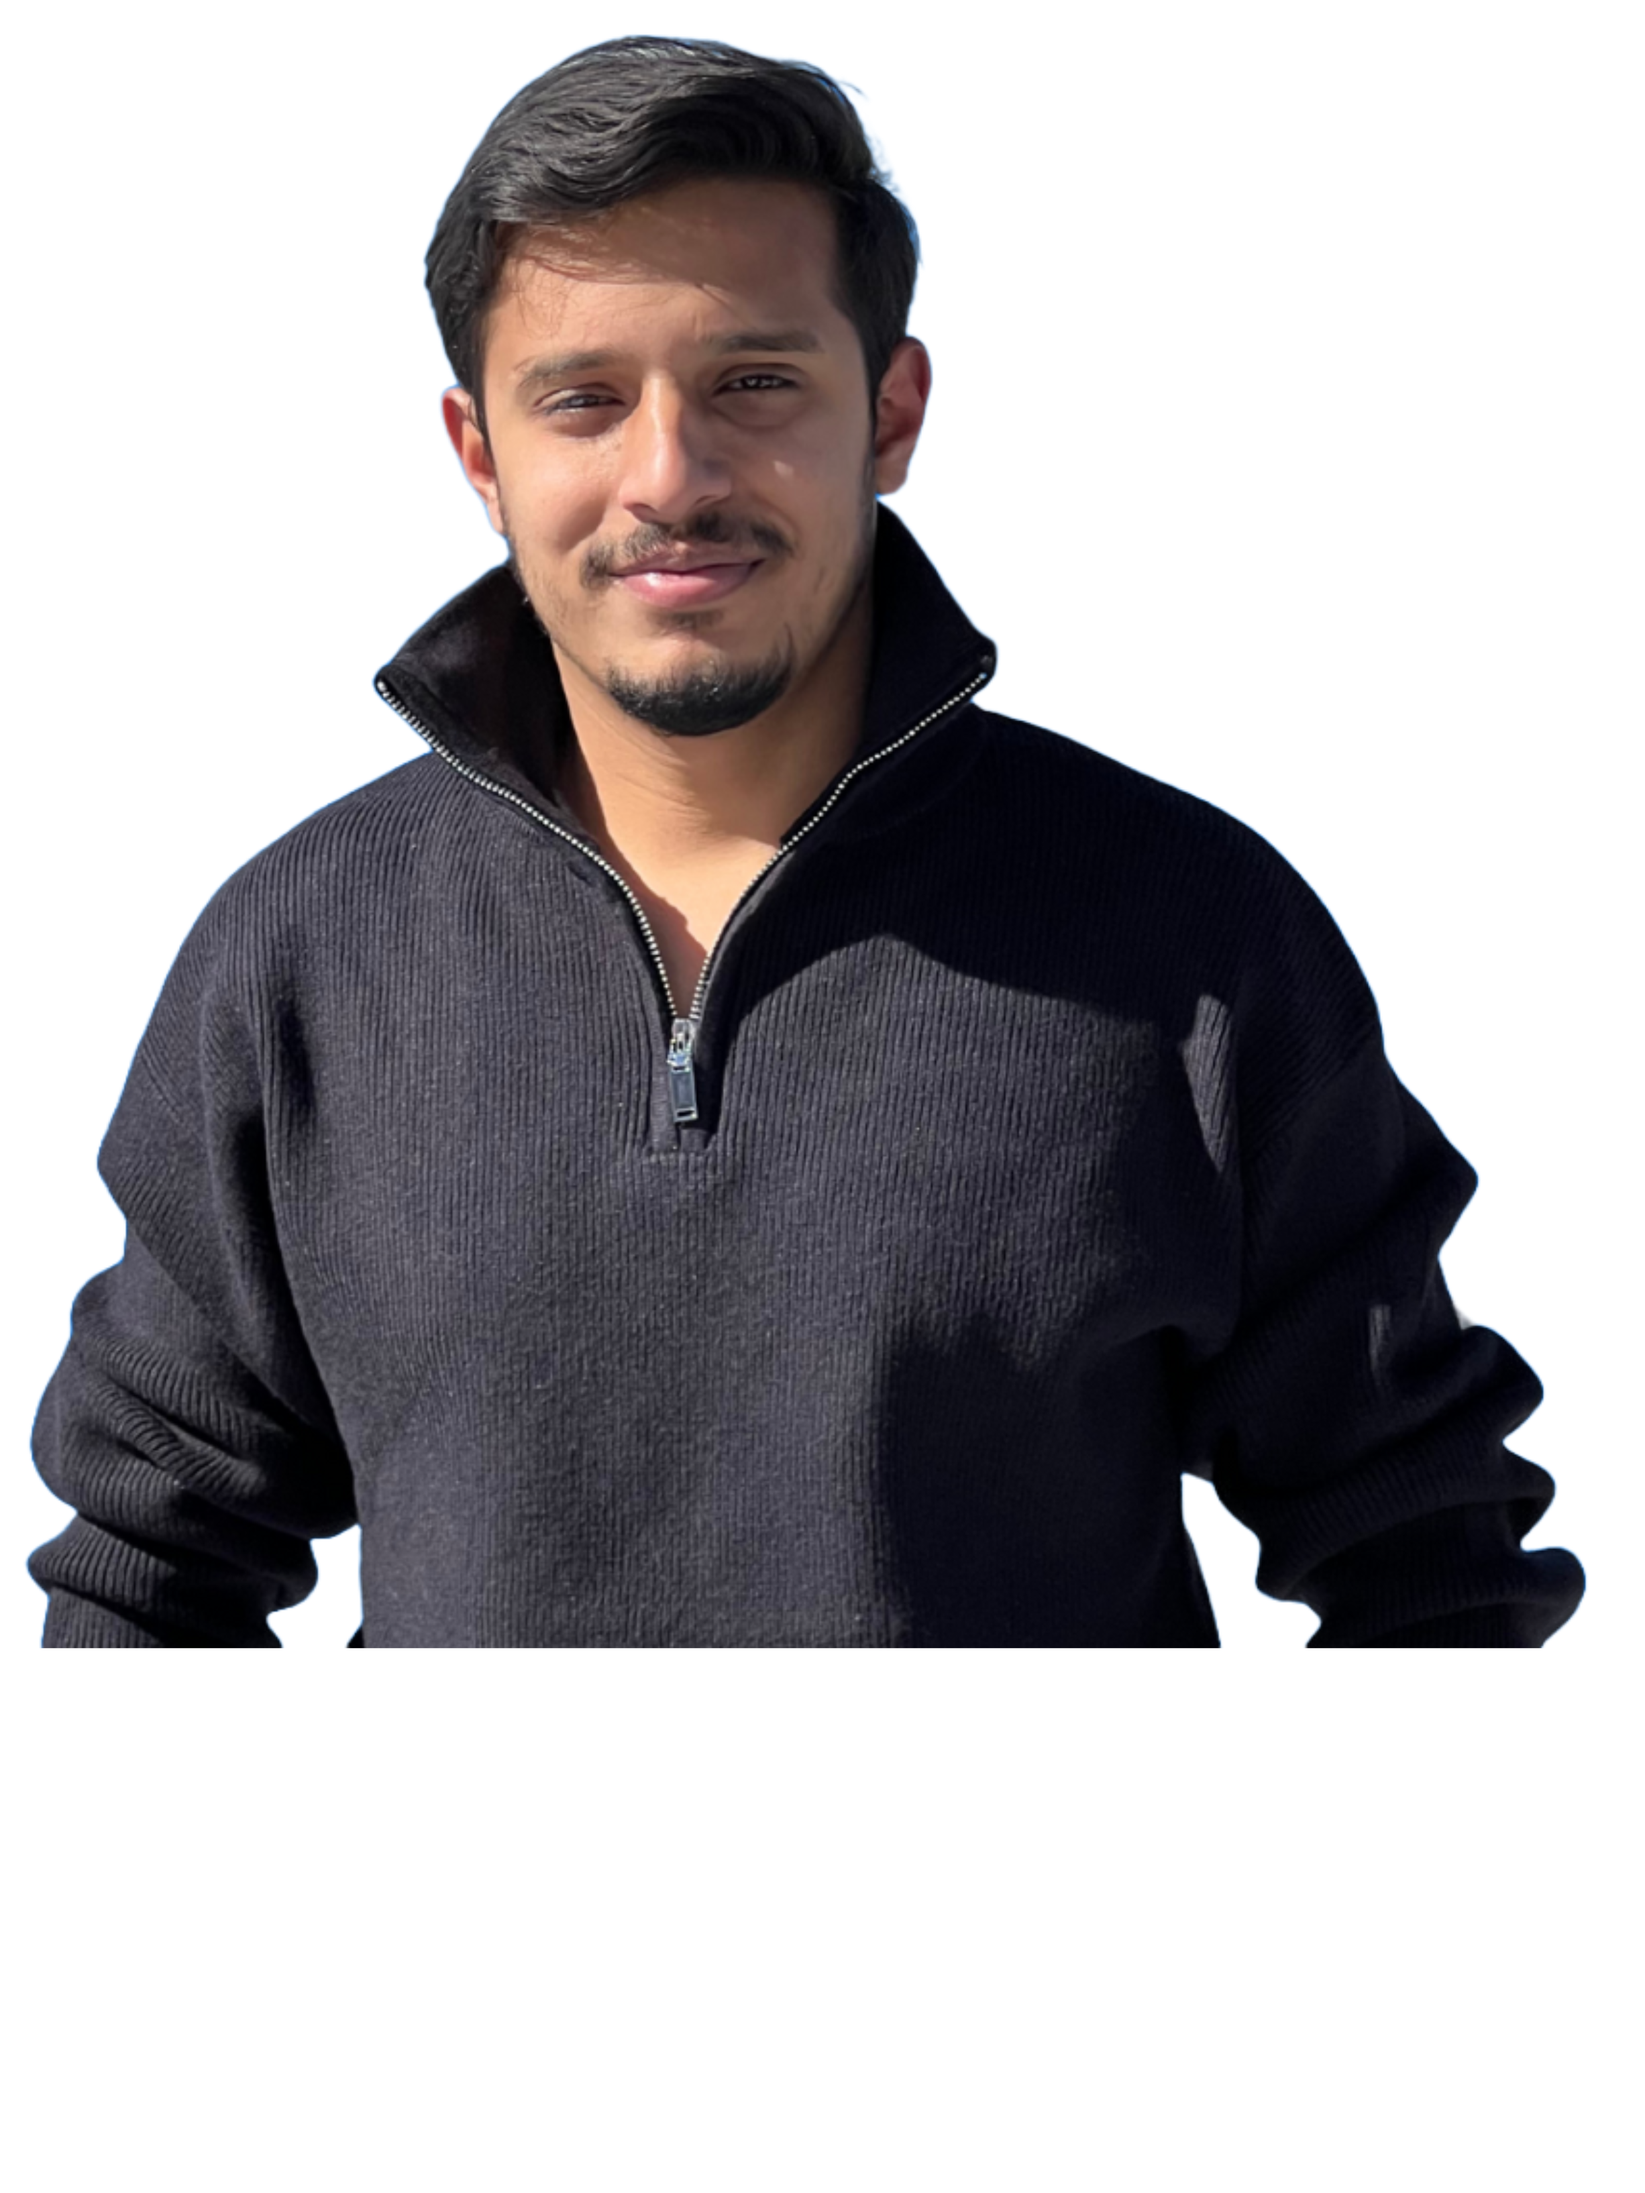
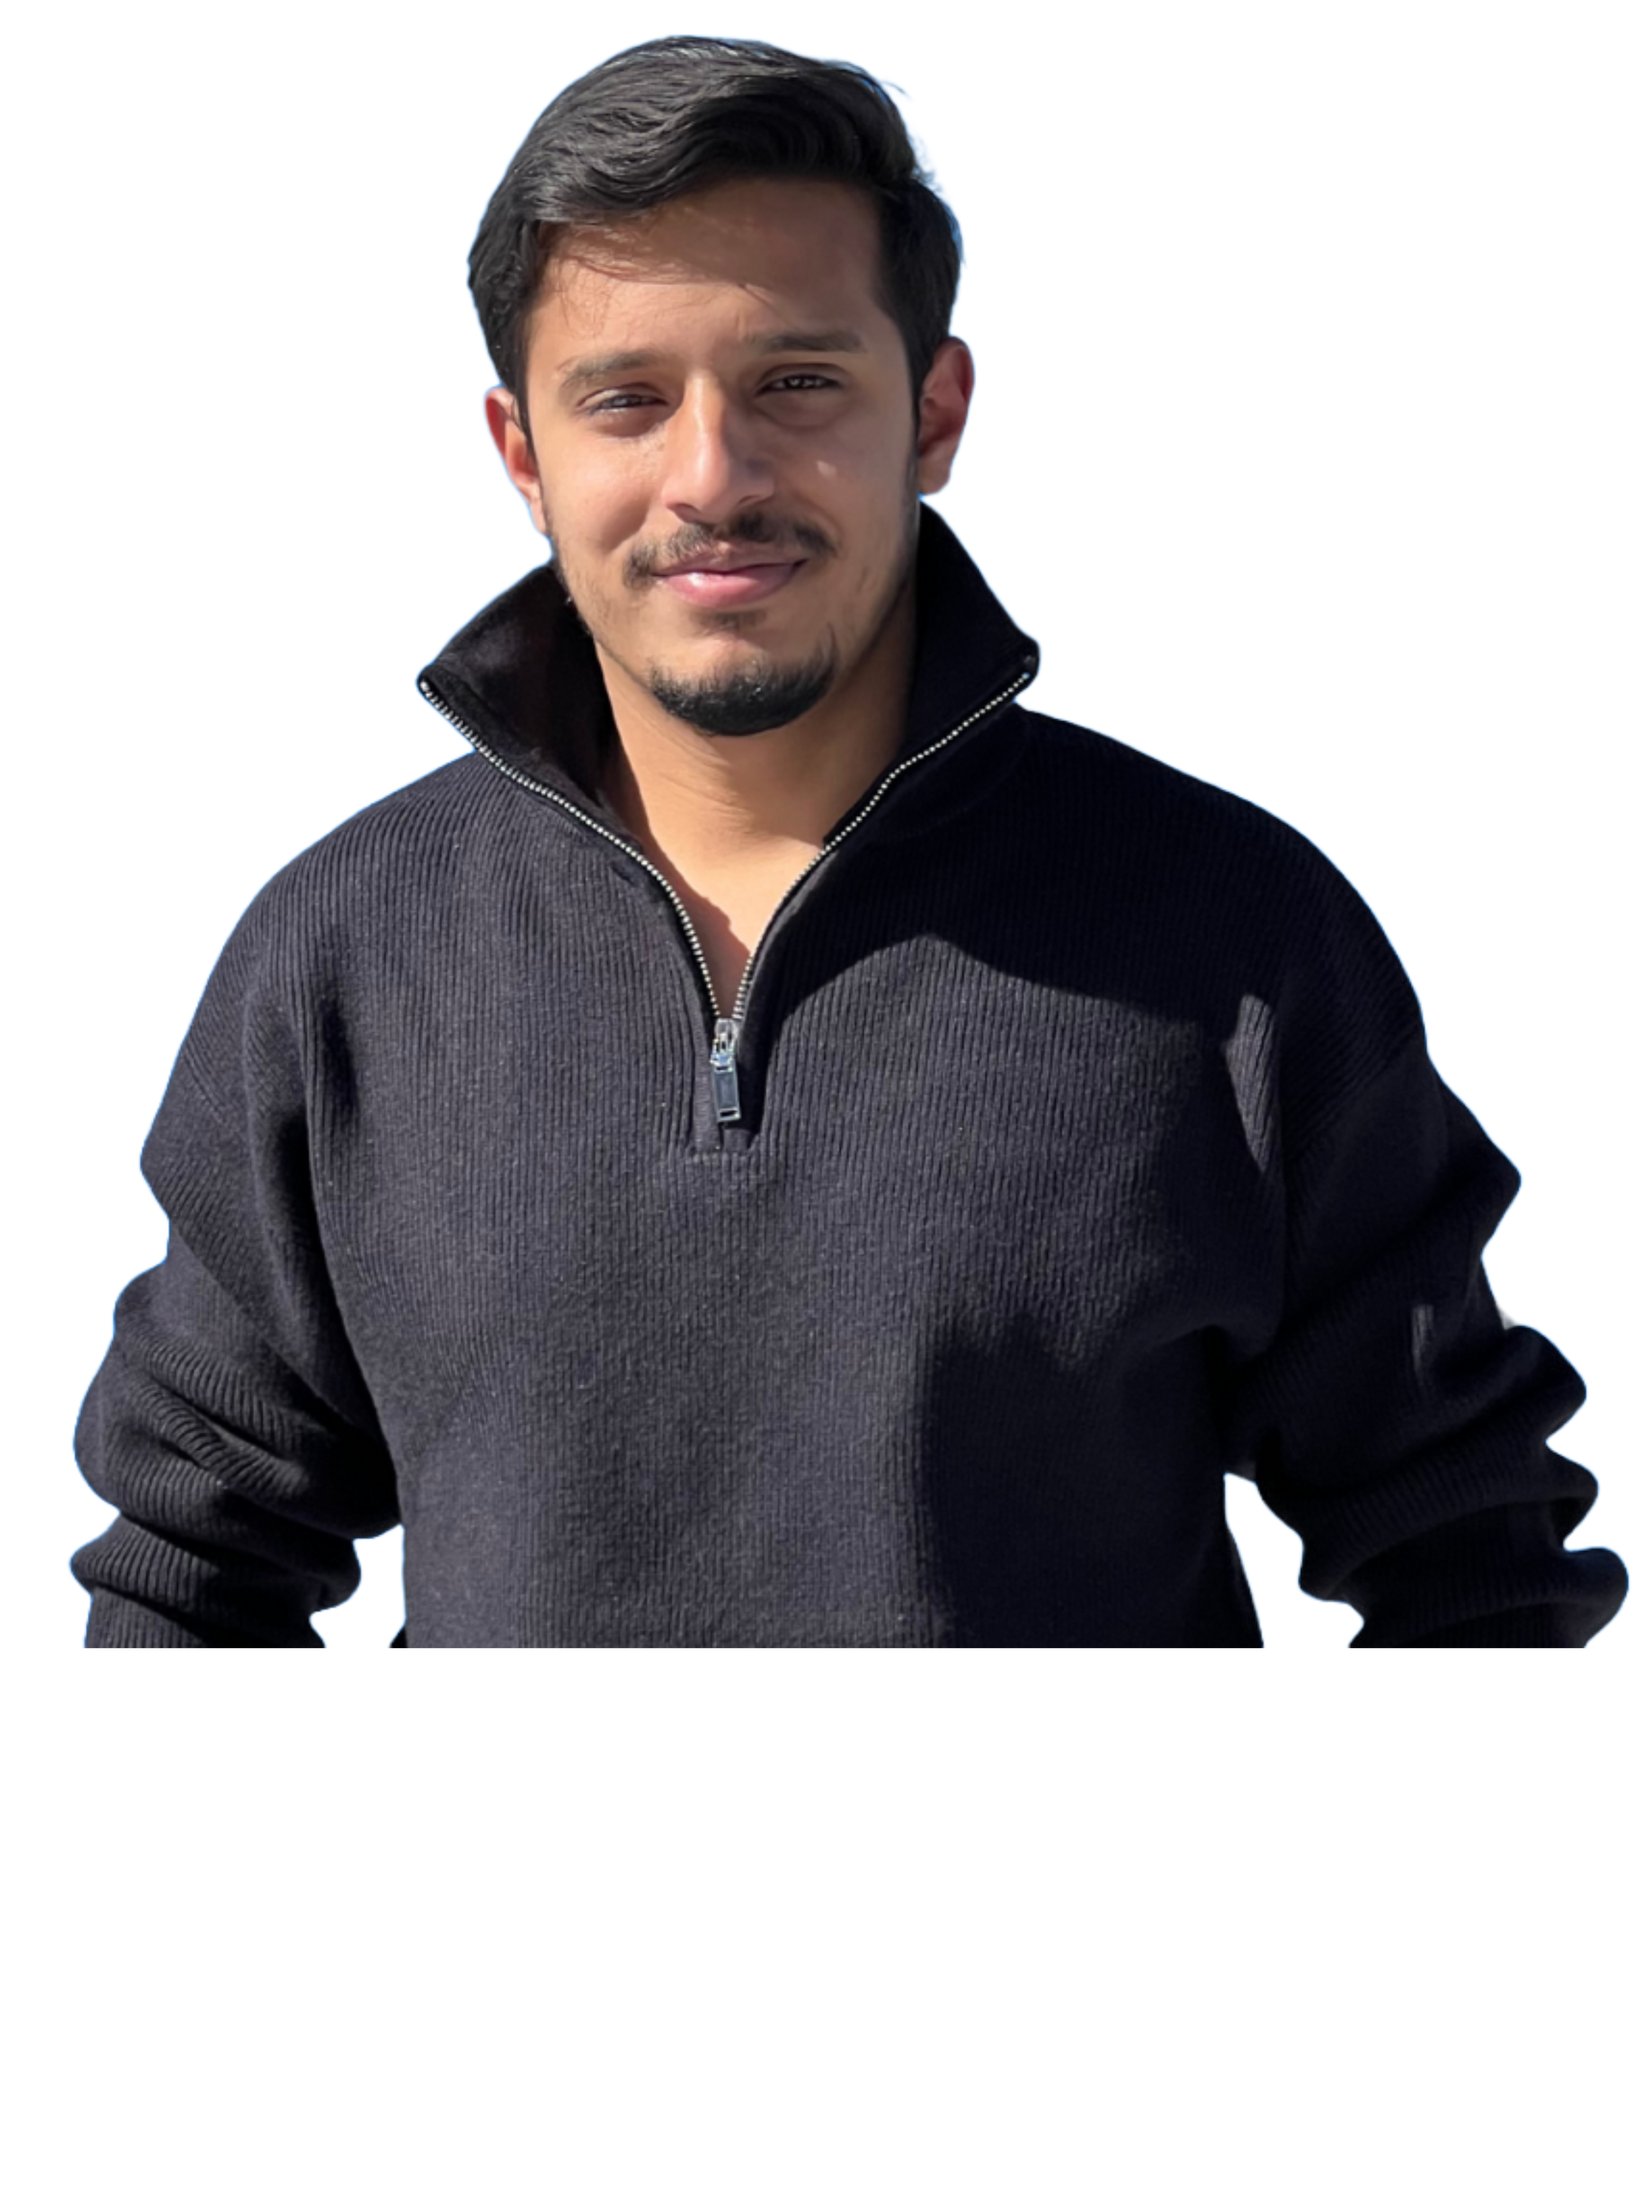
Refactor TeamSection cardfront component and update teamData
- Refactor the CardFront component in the TeamSection of the LandingSection.
- Update the image rendering to ensure it fits within the container.
- Add new team member images to the teamData file.

Changed region(s): [[0.0, 0.0, 0.7749, 0.7489], [0.6819, 0.3432, 0.9918, 0.7489], [0.7129, 0.6552, 0.8369, 0.7489]]

diff --git a/src/sections/LandingSection/components/TeamSection/teamData.ts b/src/sections/LandingSection/components/TeamSection/teamData.ts
@@ -1,6 +1,7 @@
 import { TeamMember } from './type'
  import Abi from './Images/Abi_Shrestha.png';
 import Anuja from './Images/Anuja_Lamsal.png';
+import Ayusha from './Images/Ayusha.png'
 import Arpan from './Images/Arpan.png';
 import Bhishma from './Images/Bhishma.png';
 import Bibhushan from './Images/bibhusan.png';
@@ -17,6 +18,12 @@ import Swarnim_Bajracharya from './Images/Swarnim_Bajracharya.png';
 import royas from './Images/royas.png'
 import albina from './Images/albina.png'
 import kshitiz from './Images/kshitiz.png'
+import Angelina from './Images/Angelina.png'
+import aakriti from './Images/aakriti.png'
+import neo from './Images/neo.png'
+import regal from './Images/regal.png'
+import subani from './Images/subani.png'
+import nilotpal from './Images/nilotpal.png'
 
 export const teamData: TeamMember[] = [
     {
@@ -28,6 +35,7 @@ export const teamData: TeamMember[] = [
     },
     {
       name: 'Nilotpal Dhakal',
+      image: nilotpal,
       role: 'Talent Manager',
       quote:
         'Lorem ipsum dolor sit amet, consectetur adipiscing elit. Sed do eiusmod tempor incididunt ut labore et dolore magna aliqua. Ut enim ad minim veniam, quis nostrud exercitation ullamco laboris nisi',
@@ -64,6 +72,7 @@ export const teamData: TeamMember[] = [
       }},
     {
       name: 'Subani Malla',
+      image: subani,
       role: 'Character and Background Design ',
       quote:
         'Lorem ipsum dolor sit amet, consectetur adipiscing elit. Sed do eiusmod tempor incididunt ut labore et dolore magna aliqua. Ut enim ad minim veniam, quis nostrud exercitation ullamco laboris nisi',
@@ -107,6 +116,7 @@ export const teamData: TeamMember[] = [
       }},
     {
       name: 'Neo Shakya',
+      image: neo,
       role: 'Character and Background Design',
       quote:
         'Lorem ipsum dolor sit amet, consectetur adipiscing elit. Sed do eiusmod tempor incididunt ut labore et dolore magna aliqua. Ut enim ad minim veniam, quis nostrud exercitation ullamco laboris nisi'
@@ -131,6 +141,7 @@ export const teamData: TeamMember[] = [
     },
     {
       name: 'Aayusha Jaspau',
+      image: Ayusha,
       role: '?????',
       quote:
         'Lorem ipsum dolor sit amet, consectetur adipiscing elit. Sed do eiusmod tempor incididunt ut labore et dolore magna aliqua. Ut enim ad minim veniam, quis nostrud exercitation ullamco laboris nisi'
@@ -162,6 +173,7 @@ export const teamData: TeamMember[] = [
     },
     {
       name: 'Angelina Ghimire',
+      image: Angelina,
       role: 'Creative Lead',
       quote:
         'Lorem ipsum dolor sit amet, consectetur adipiscing elit. Sed do eiusmod tempor incididunt ut labore et dolore magna aliqua. Ut enim ad minim veniam, quis nostrud exercitation ullamco laboris nisi',
@@ -197,6 +209,7 @@ export const teamData: TeamMember[] = [
     },
     {
       name: 'Regal Adhikari',
+      image: regal,
       role: 'Game development Lead',
       quote:
         'Lorem ipsum dolor sit amet, consectetur adipiscing elit. Sed do eiusmod tempor incididunt ut labore et dolore magna aliqua. Ut enim ad minim veniam, quis nostrud exercitation ullamco laboris nisi',
@@ -206,6 +219,7 @@ export const teamData: TeamMember[] = [
       }},
     {
       name: 'Aakriti Banjara',
+      image: aakriti,
       role: 'Game Development',
       quote:
         'Lorem ipsum dolor sit amet, consectetur adipiscing elit. Sed do eiusmod tempor incididunt ut labore et dolore magna aliqua. Ut enim ad minim veniam, quis nostrud exercitation ullamco laboris nisi',

diff --git a/src/sections/LandingSection/components/TeamSection/cardfront.tsx b/src/sections/LandingSection/components/TeamSection/cardfront.tsx
@@ -8,18 +8,22 @@ interface CardFrontProps {
 
 export const CardFront: React.FC<CardFrontProps> = ({ member, defaultImage }) => {
   return (
-    <div className="absolute inset-0 flex flex-col items-center justify-center bg-white rounded-2xl p-5 backface-hidden">
-      <img
-        src={member.image || defaultImage}
-        alt={member.name}
-        className="w-4/5 h-auto absolute top-1/2 left-1/2 transform -translate-x-1/2 -translate-y-1/2 z-10"
-      />
+    <div className="absolute inset-0 flex flex-col items-center justify-between bg-white rounded-2xl p-5 backface-hidden">
+      <div className="flex-grow flex items-center justify-center p-4">
+        <img
+          src={member.image || defaultImage}
+          alt={member.name}
+          className="max-w-full h-fit object-cover" // Ensure the image fits within the container
+        />
+      </div>
+
+    
       <div className="absolute top-5 left-6 text-4xl font-bold text-[#702412] z-20">
         {member.name.charAt(0)}
       </div>
-      <div className="absolute top-12 left-5 text-5xl text-[#702412] z-20 after:content-['\2660']" />
+      <div className="absolute top-12 left-5 text-5xl text-[#702412] after:content-['\2660']" />
       <div className="absolute bottom-12 text-center z-10">
-        <h3 className="text-3xl font-jersey text-[#702412] leading-[1vh]">{member.name}</h3>
+        <h3 className="text-3xl font-jersey text-[#702412] lg:leading-[1vh] leading-[2vh] ">{member.name}</h3>
         <p className="text-sm text-[#702412]/60 font-rubik mt-2">{member.role}</p>
       </div>
     </div>
